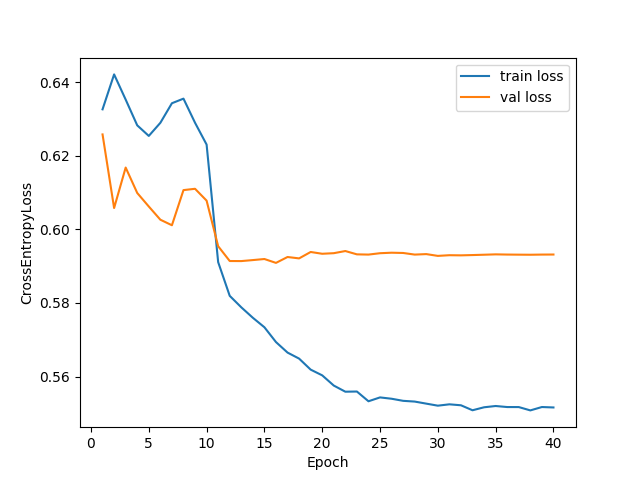
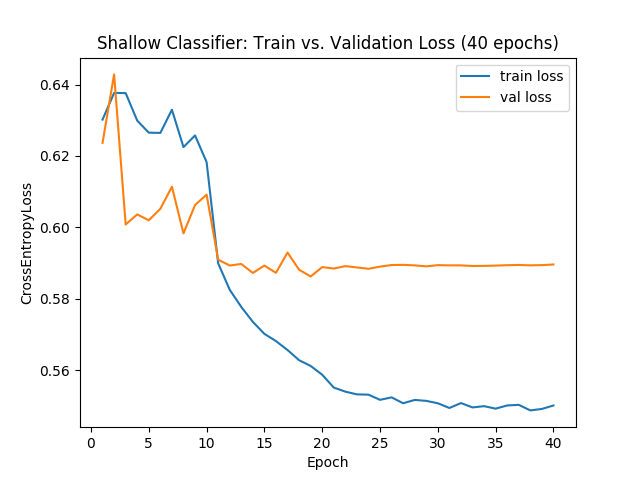
update readme

diff --git a/README.md b/README.md
@@ -26,8 +26,10 @@ Currently, my best results have been from using the following features and hyper
 - Dense classifier is trained for 3 epochs. I will update this repo as I get more consecutive rounds of training in.
 
 <p align="center">
-    <img src="img/learning_curve_fc.png" /><br>
-    <i>Loss curves for the shallow classifier trained over 40 epochs (result of `train_cls.py`)</i>
+    <img src="img/learning_curve_fc.png" width="320" height="240"/>
+    <img src="img/learning_curve_fc.png" width="320" height="240"/>
+    <br>
+    <i>Loss curves for the shallow classifier trained over 40 epochs (result of train_cls.py) and the dense classifier trained over 3 epochs (result of train_seg.py)</i>
 </p>
 
 ## Technical Details
